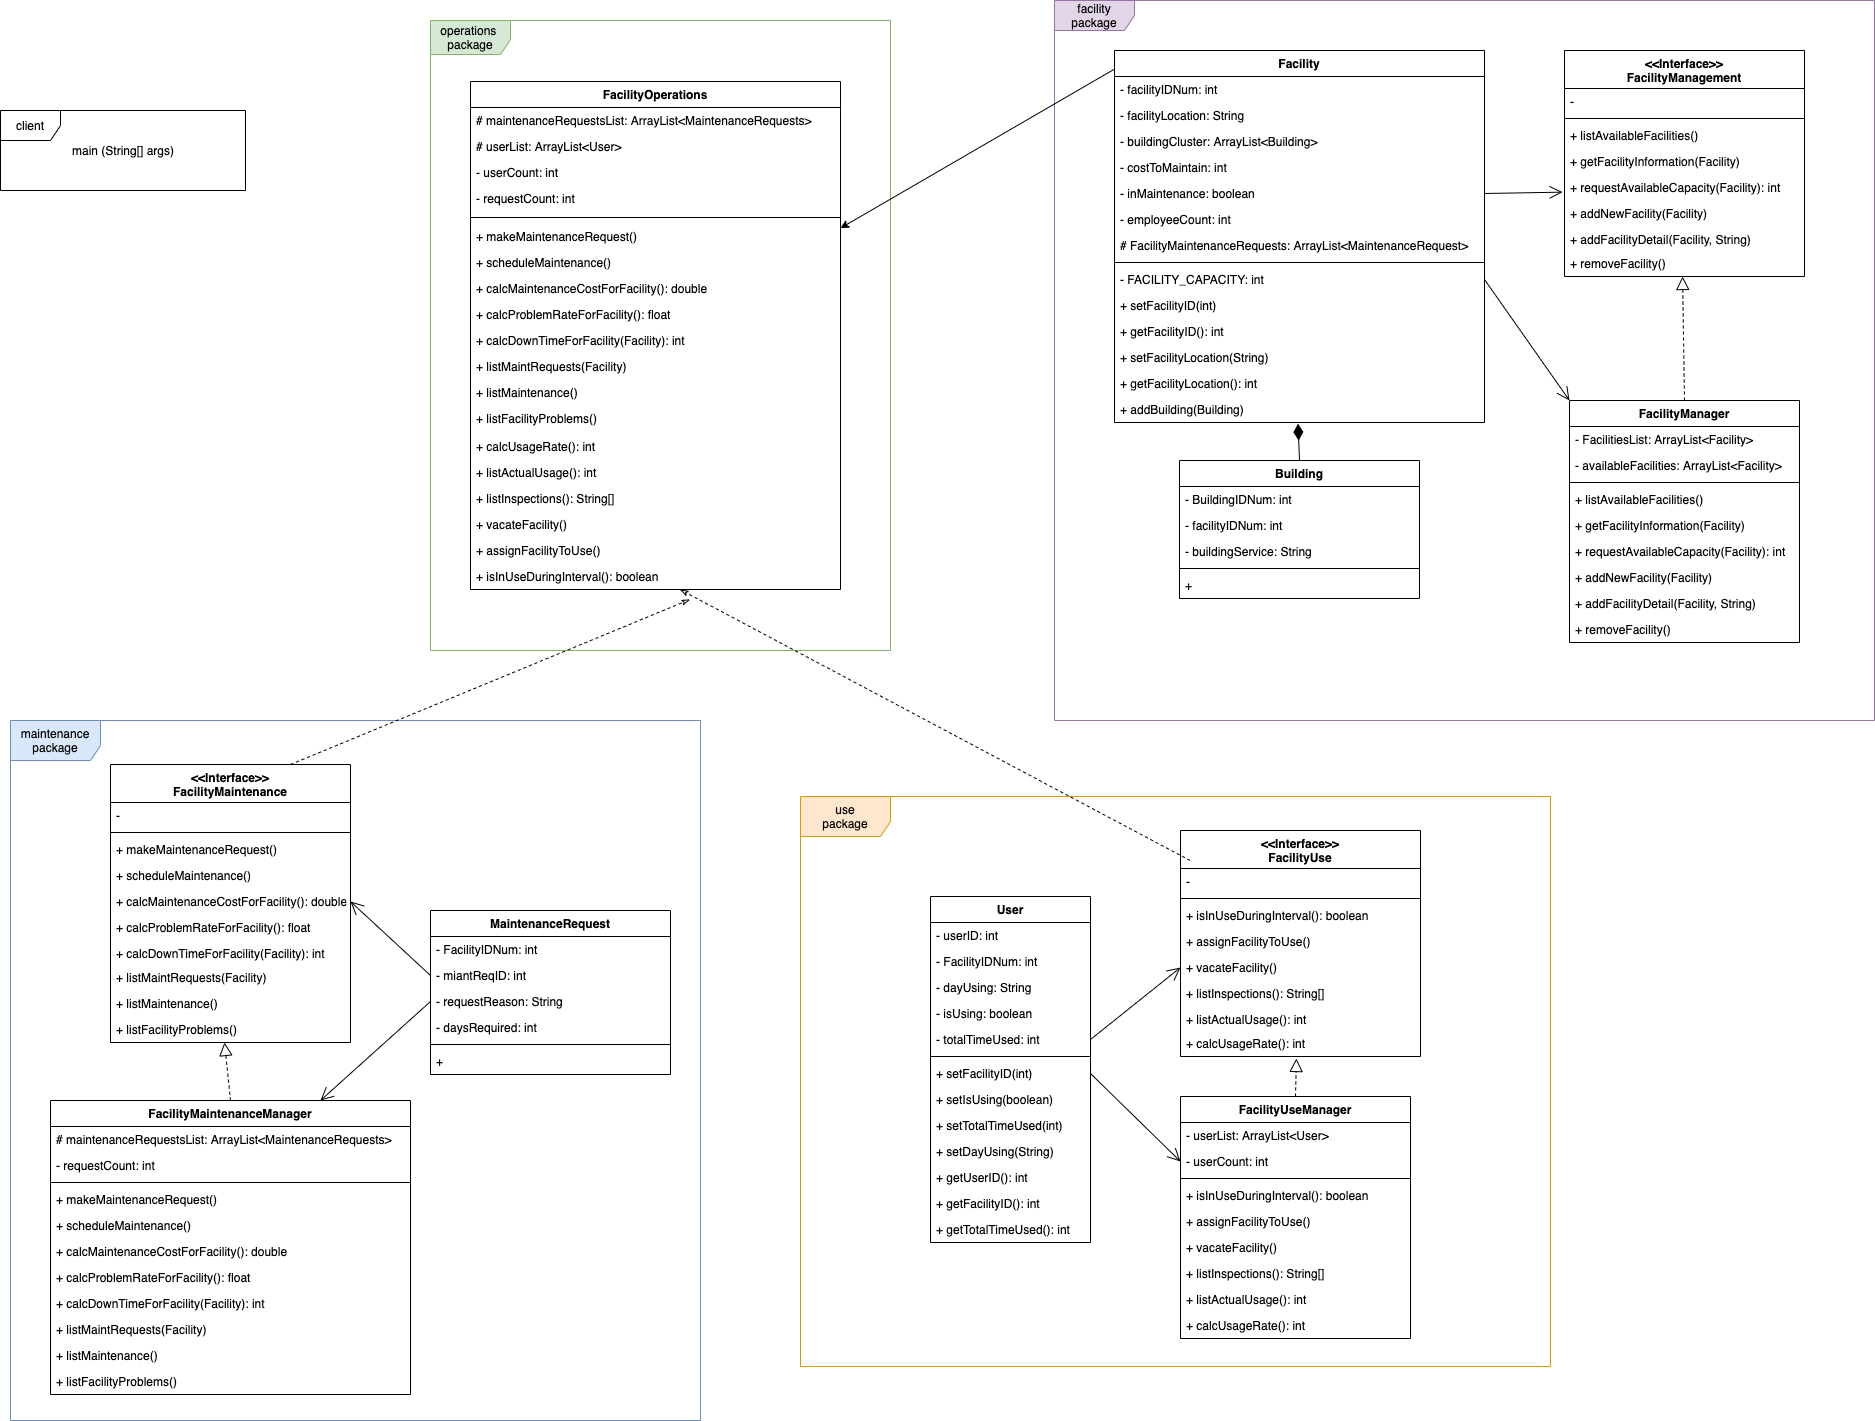
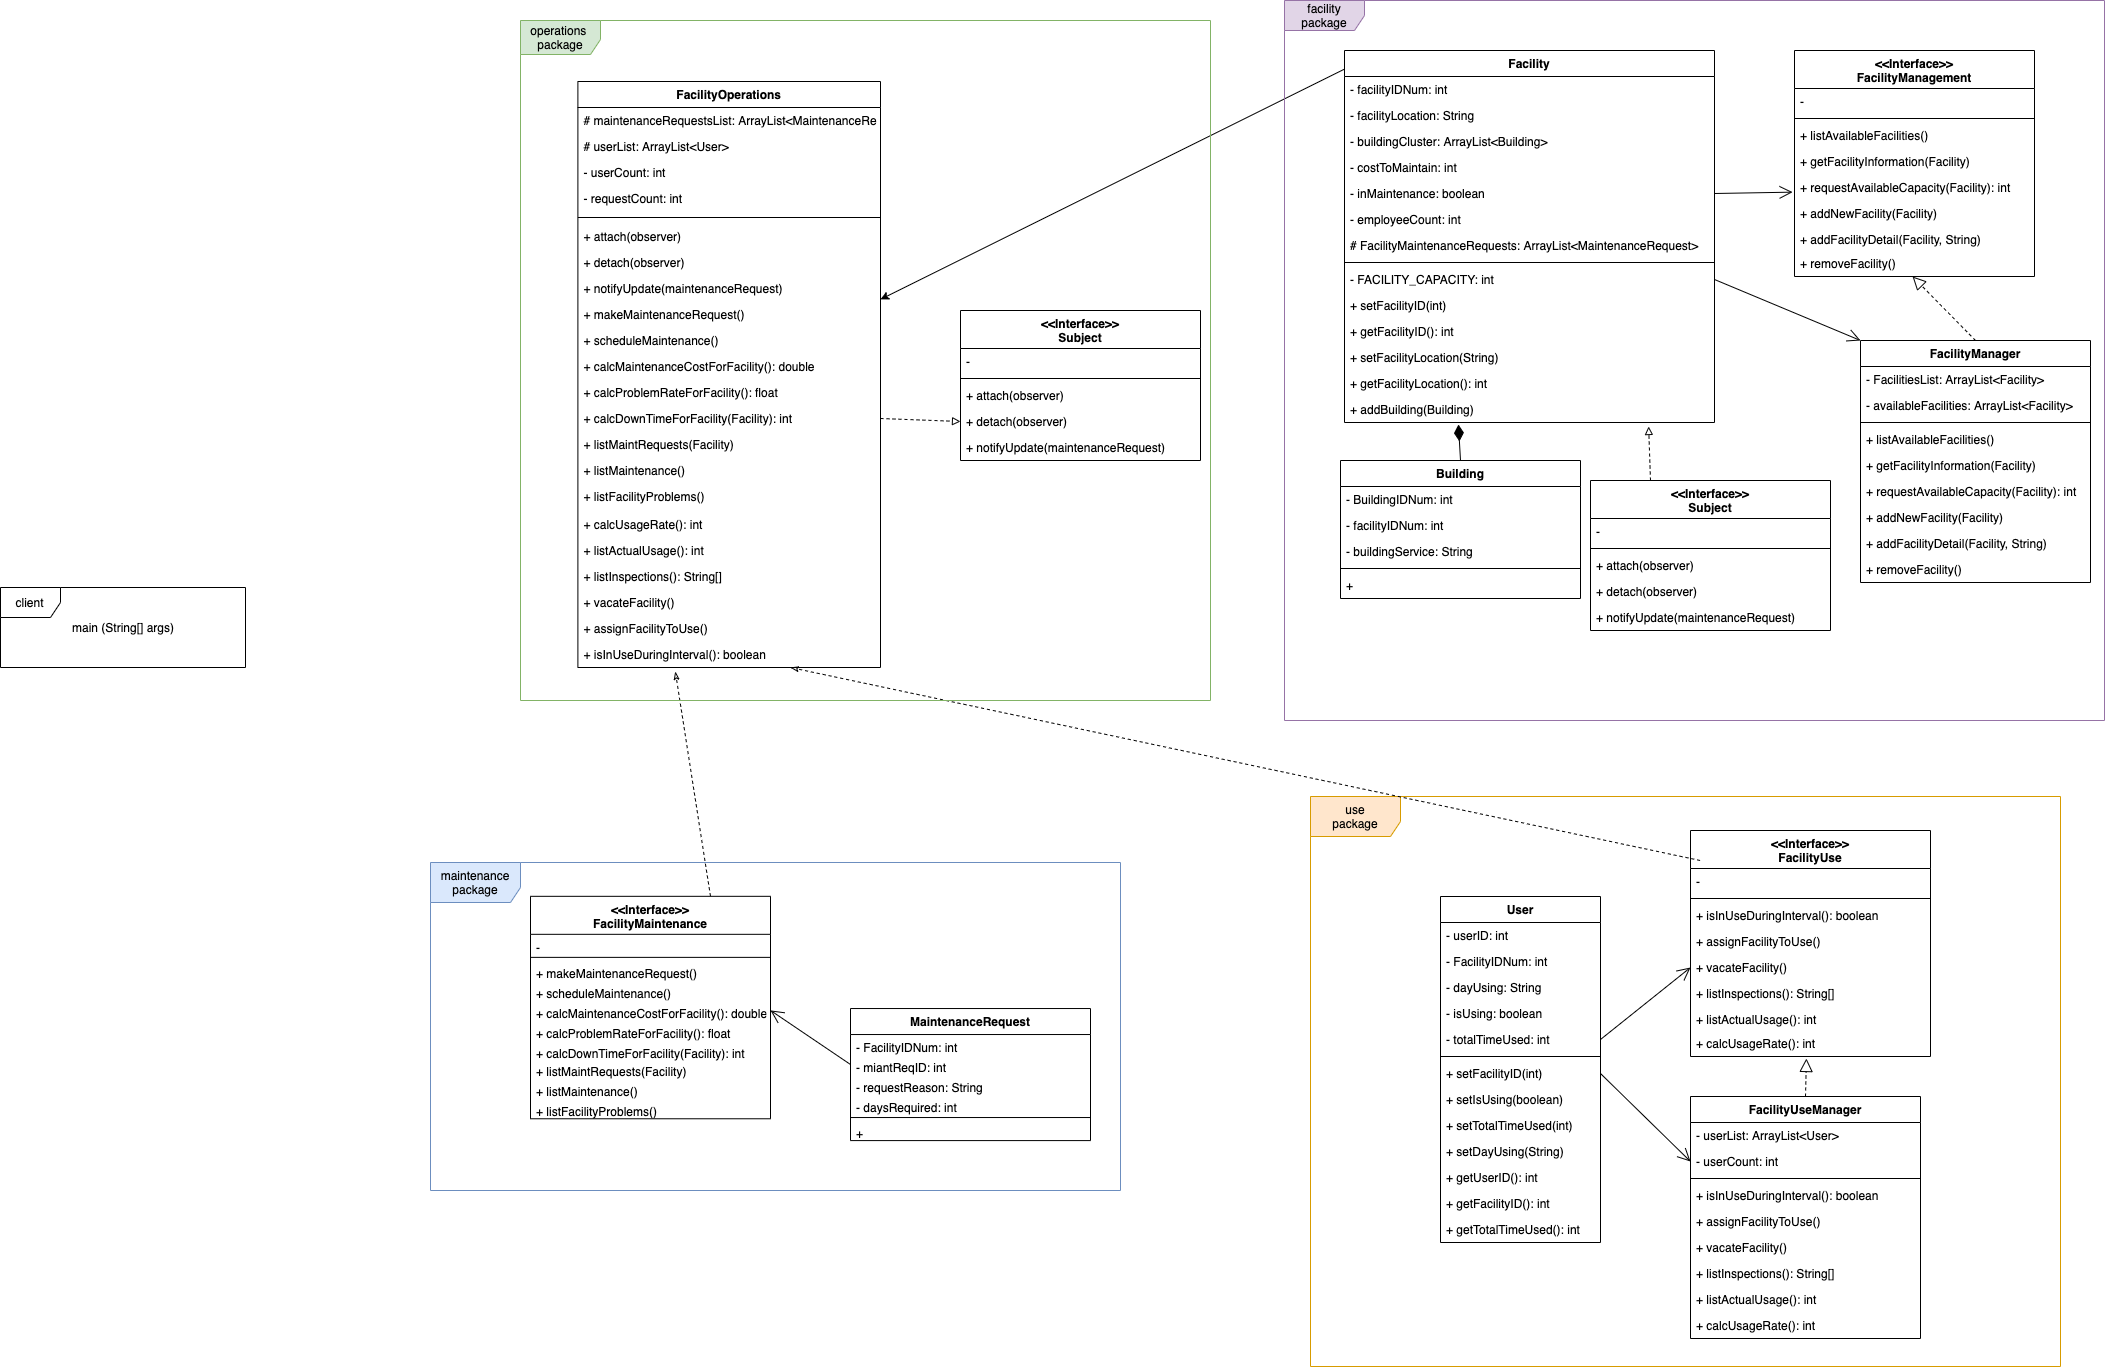
documentation updated

diff --git a/facilitiesmanagementsystem/src/main/java/client/FacilityManagementSystemDriver.java b/facilitiesmanagementsystem/src/main/java/client/FacilityManagementSystemDriver.java
@@ -5,7 +5,6 @@ import org.springframework.context.ApplicationContext;
 import org.springframework.context.support.ClassPathXmlApplicationContext;
 
 import main.java.facility.*;
-//import main.java.client.*; unnnecessary 
 import main.java.maintenance.*;
 import main.java.operations.FacilityOperations;
 import main.java.use.*;
@@ -36,7 +35,7 @@ public class FacilityManagementSystemDriver {
         facilityManager = new FacilityManager();
         facilityManager.addNewFacility(facility);
 
-        //attaching facility as an observer to operationsManager
+        // attaching facility as an observer to operationsManager
         FacilityOperations operationsManager = (FacilityOperations) context.getBean("facilityOperations");
         operationsManager = new FacilityOperations();
         operationsManager.attach(facility);
